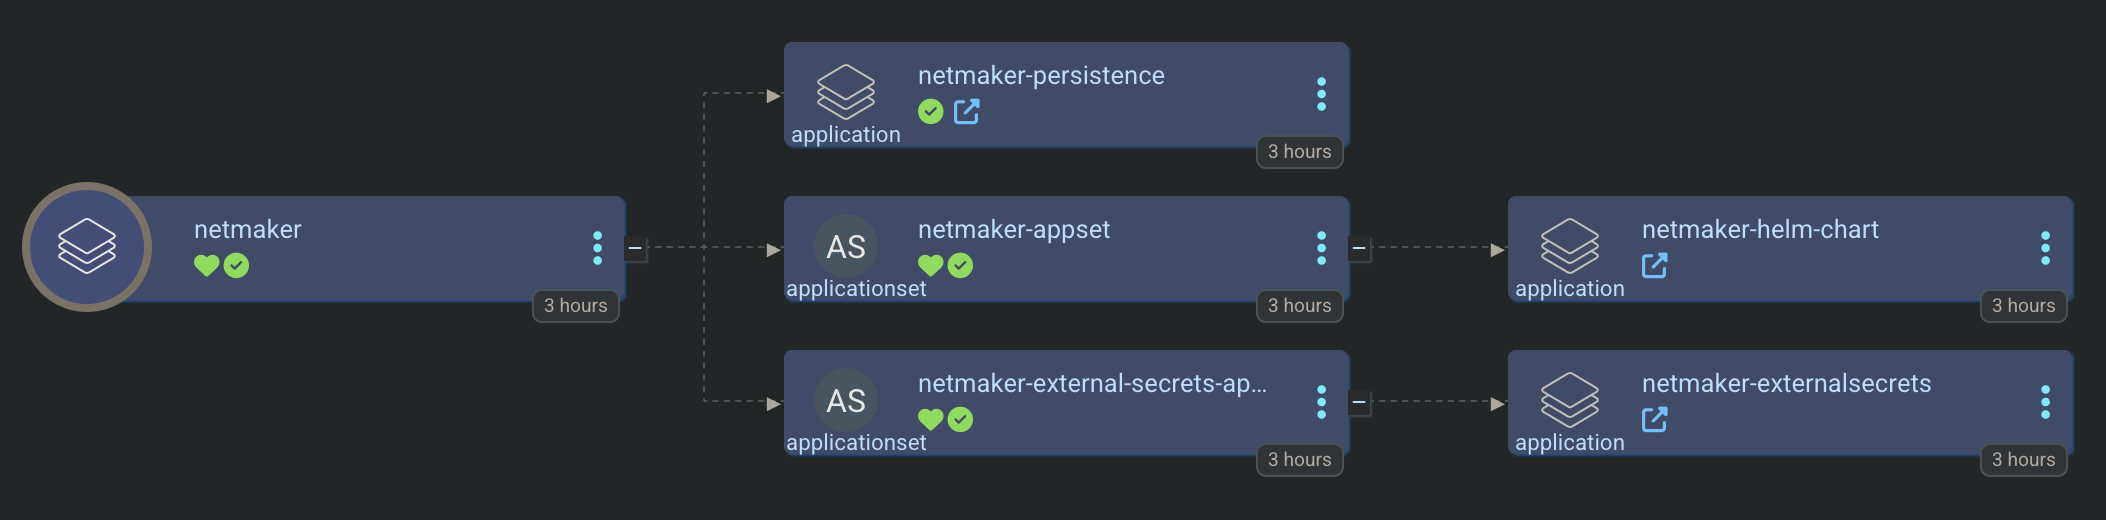
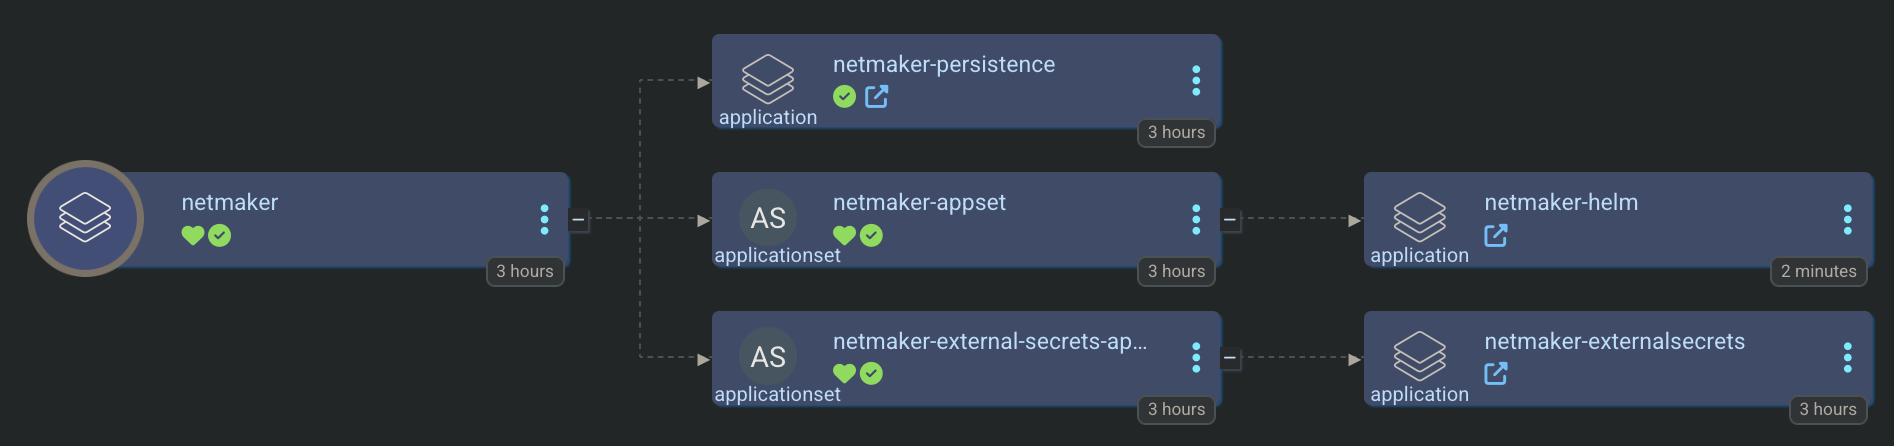
finish up some basic notes on netmaker

Changed region(s): [[0.0, 0.3498, 0.9968, 0.6413], [0.3427, 0.6704, 0.9968, 0.9619], [0.3427, 0.0583, 0.6542, 0.3498]]

diff --git a/netmaker/README.md b/netmaker/README.md
@@ -5,7 +5,9 @@
 We're currently using our own home grown helm chart as it supports existing secrets and initial super admin user creation:
 https://github.com/small-hack/netmaker-helm
 
-![Screenshot of the Argo CD web interface showing the netmaker app of apps. The netmaker app shows three children: netmaker-persistence application in healthy state, netmaker-appset in healthy state, and the netmaker external secrets appset also in healthy state](./netmaker.png)
+![Screenshot of the Argo CD web interface showing the netmaker app of apps. The netmaker app shows three children: netmaker-persistence application in healthy state, netmaker-appset with a child of netmaker-helm app both in healthy state, and the netmaker external secrets appset with a child app of netmaker-externalsecrets also both in a healthy state](./netmaker.png)
+
+![Screenshot of the Argo CD web interface showing the netmaker-helm app's networking view. From the left it shows connection from the internet to the ip 192.168.42.42 which then connects to three ingresses, which connect to three services, which connect to three pods. The ingresses are netmaker-api, netmaker-mqtt, and netmaker-ui, which similarly named services and pods. Outside of that part of the chart are two services netmaker-postgresql and netmaker-postgresql-hl. Both connect to a pod called netmaker-postgresql-0](./netmaker-network.png)
 
 ### Sync waves
 
